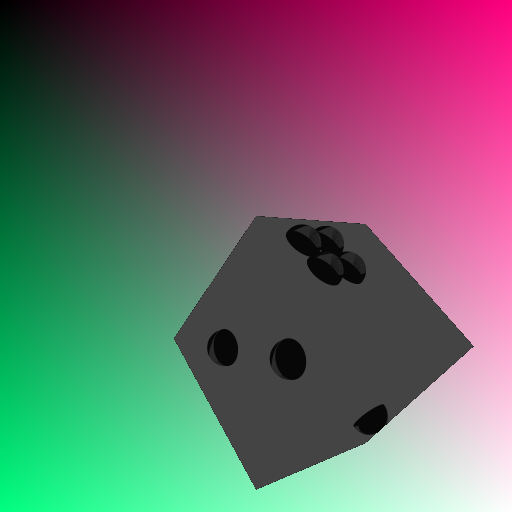
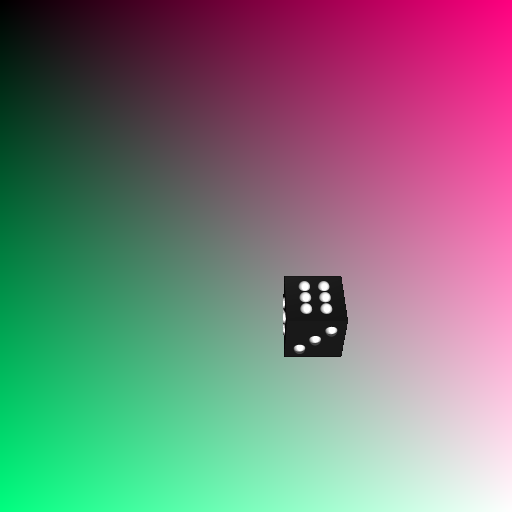
a5 almost done

Changed region(s): [[0.3438, 0.4062, 0.9375, 0.9688]]

diff --git a/A5/SceneNode.cpp b/A5/SceneNode.cpp
@@ -92,12 +92,12 @@ void SceneNode::rotate(char axis, float angle) {
 			break;
 	}
 	mat4 rot_matrix = glm::rotate(degreesToRadians(angle), rot_axis);
-	set_transform( trans * rot_matrix);
+	set_transform( rot_matrix * trans);
 }
 
 //---------------------------------------------------------------------------------------
 void SceneNode::scale(const glm::vec3 & amount) {
-	set_transform( trans * glm::scale(amount) );
+	set_transform( glm::scale(amount) * trans );
 }
 
 //---------------------------------------------------------------------------------------

diff --git a/A5/JointNode.cpp b/A5/JointNode.cpp
@@ -54,6 +54,7 @@ TAO* JointNode::join(TAO *B, TAO* C) {
 
 			if (B->taomax > C->taomax) maxtao = B;
 			else maxtao = C;
+
 			break;
 
 		case INTERSECTION:
